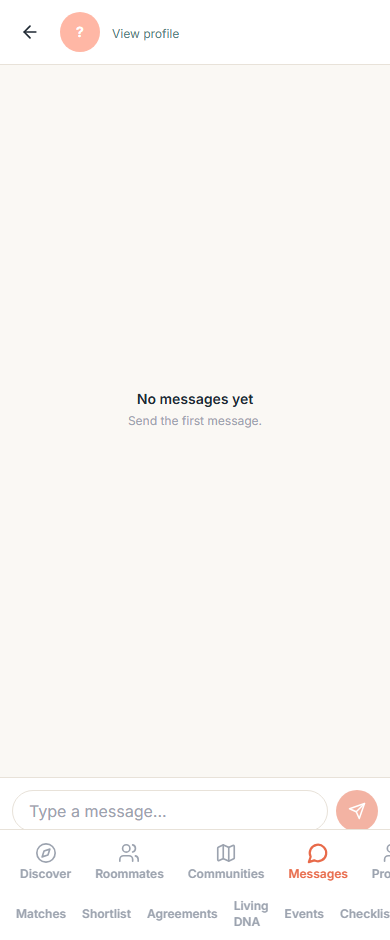
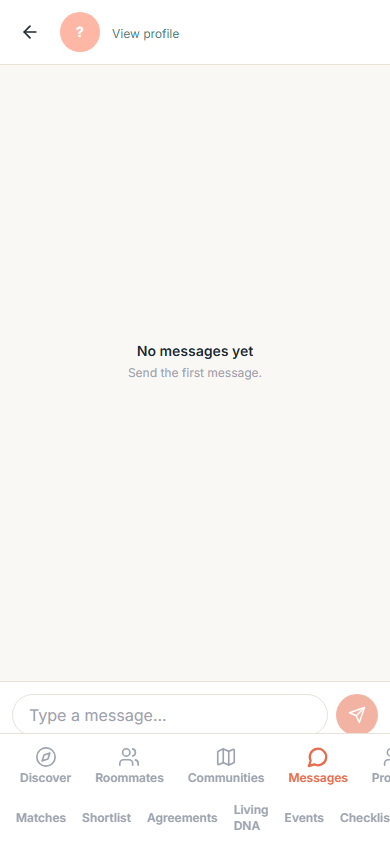
fix(chat): stop the composer colliding with the fixed bottom nav
Layout reserves pb-24 (6rem) for the fixed bottom navigation. ChatPage then
claimed a full 100dvh on top of that padding, so the 100dvh box ended 96px
from the viewport bottom, which is exactly where the nav sits. The message
composer and its send button were being clipped by it at 390px. It now fills
the space Layout actually left: h-[calc(100dvh-6rem)].

Also fixes a fault in audit-screens.mjs rather than in the app. restoreSession
reads user.id off the top level of /auth/me, but the mock returned it nested
under `user`, so localStorage stored the string "undefined" as the user id.
Number("undefined") is NaN, every comparison in the alignment check failed,
and all three messages, including the viewer's own, rendered as if they had
come from the other person. The capture made working message alignment look
broken. Verified after the fix: the viewer's own message is coral and
right-aligned, the other two are neutral and left-aligned. No product change
was needed for that and none was made.

Verified: eslint clean, build succeeds, qa-discover-ui 5 passed 0 failed,
24 audit screenshots all overflow=false.

Still outstanding: only 3 of the 24 audit screenshots have actually been
looked at. Matches populated, Agreements and Living DNA in all their states,
and the desktop chat view, remain unreviewed, and no end-to-end journey was
exercised.

diff --git a/frontend-react/src/pages/ChatPage.jsx b/frontend-react/src/pages/ChatPage.jsx
@@ -120,7 +120,11 @@ export default function ChatPage() {
 
   return (
     <Layout>
-      <div className="flex flex-col h-full bg-surface-bg" style={{ height: '100dvh' }}>
+      {/* Layout reserves pb-24 (6rem) for the fixed bottom nav. Claiming a full
+          100dvh on top of that padding pushed the composer down onto the nav
+          itself, clipping the send button on mobile. Fill the space Layout
+          actually left instead. */}
+      <div className="flex flex-col bg-surface-bg h-[calc(100dvh-6rem)]">
         <header className="flex items-center gap-3 p-3 border-b border-surface-border bg-surface-card">
           <button
             type="button"
